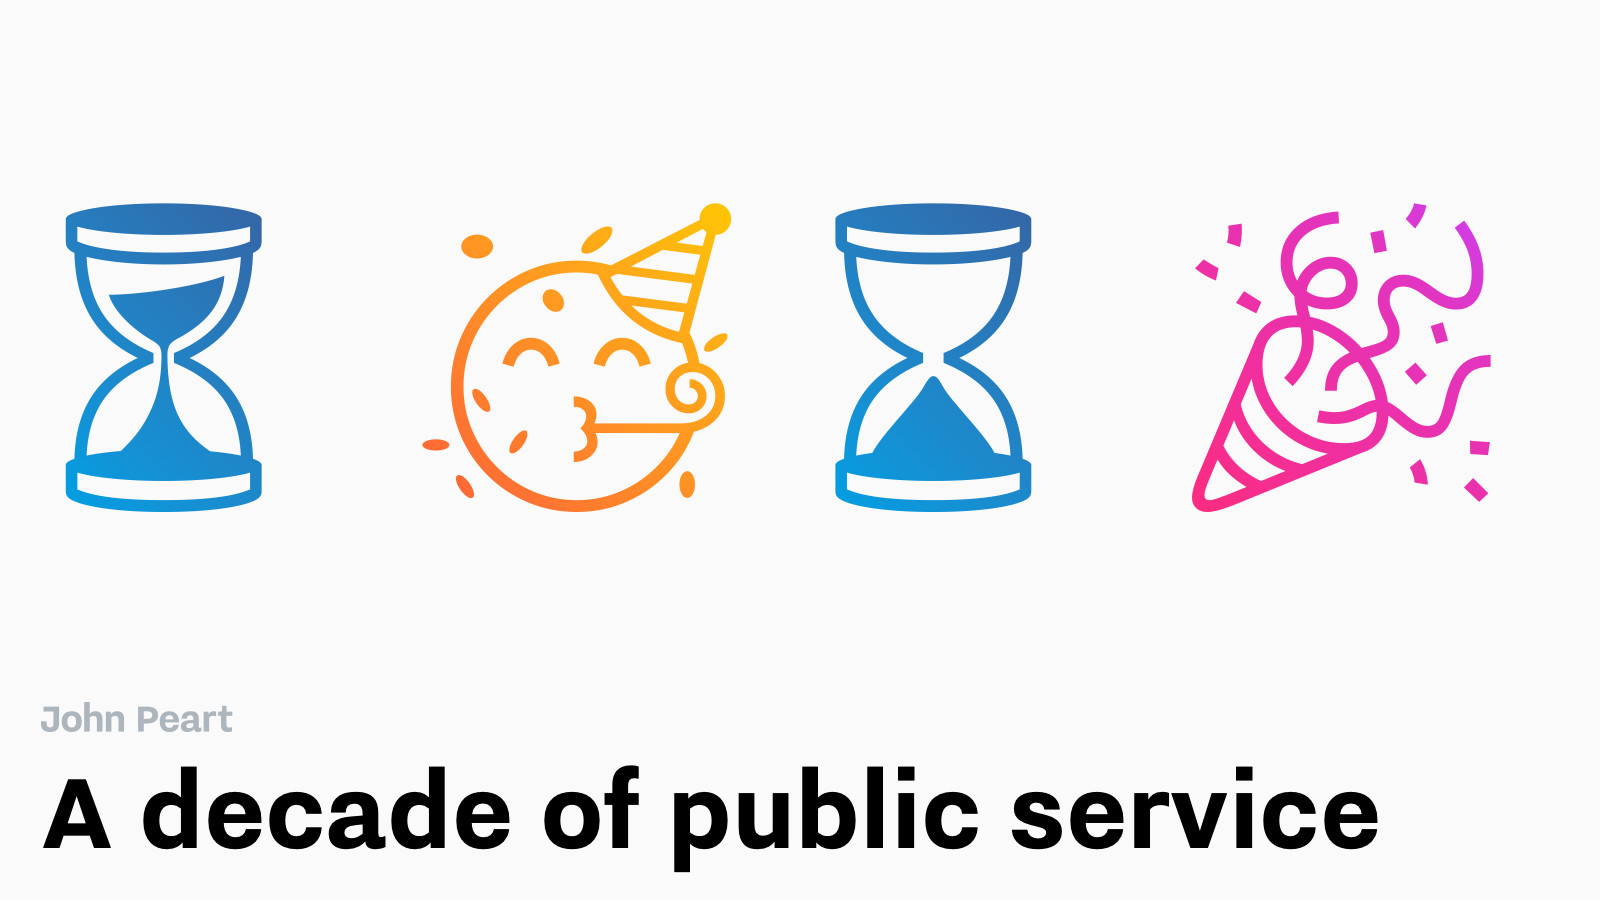
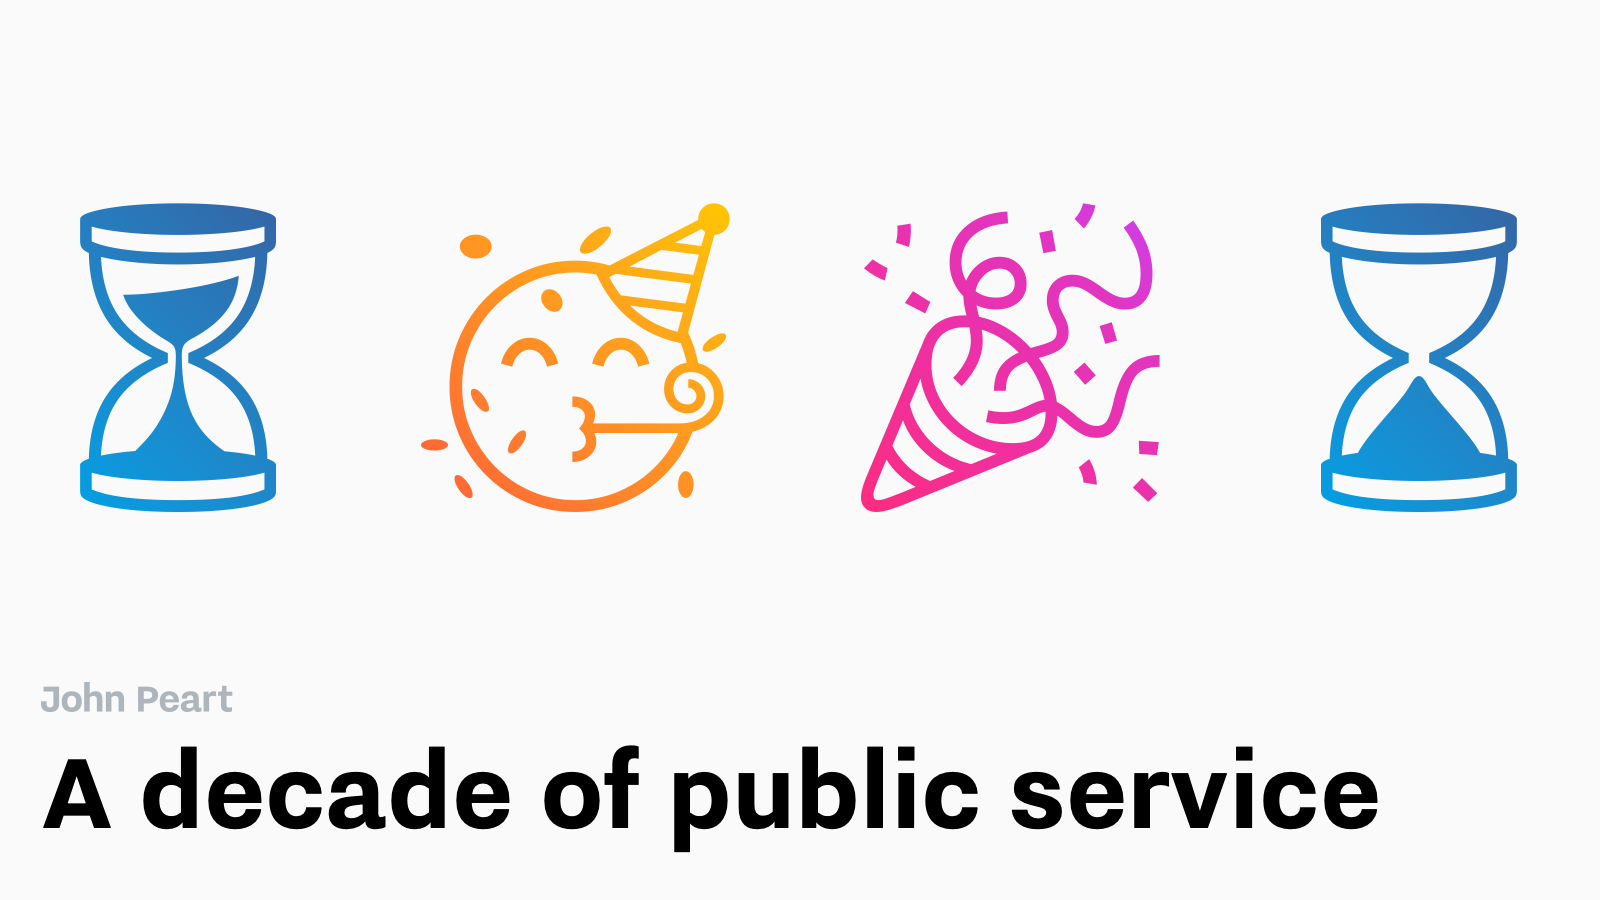
Update post

diff --git a/_posts/2023-09-02-a-decade-of-civil-service.md b/_posts/2023-09-02-a-decade-of-civil-service.md
@@ -10,7 +10,7 @@ category:
 
 This week was the end of my tenth year working in the UK Civil Service. 
 
-![Social media icons: hearts and reposts](/assets/images/posts/2023/09/02/a-decade-of-civil-service/icons.svg)
+![A series of egg-timers and party poppers in an emoji style](/assets/images/posts/2023/09/02/a-decade-of-civil-service/icons.svg)
 
 I didn't have this on my bingo card. In fact, it very nearly didn't happen at all. 
 
